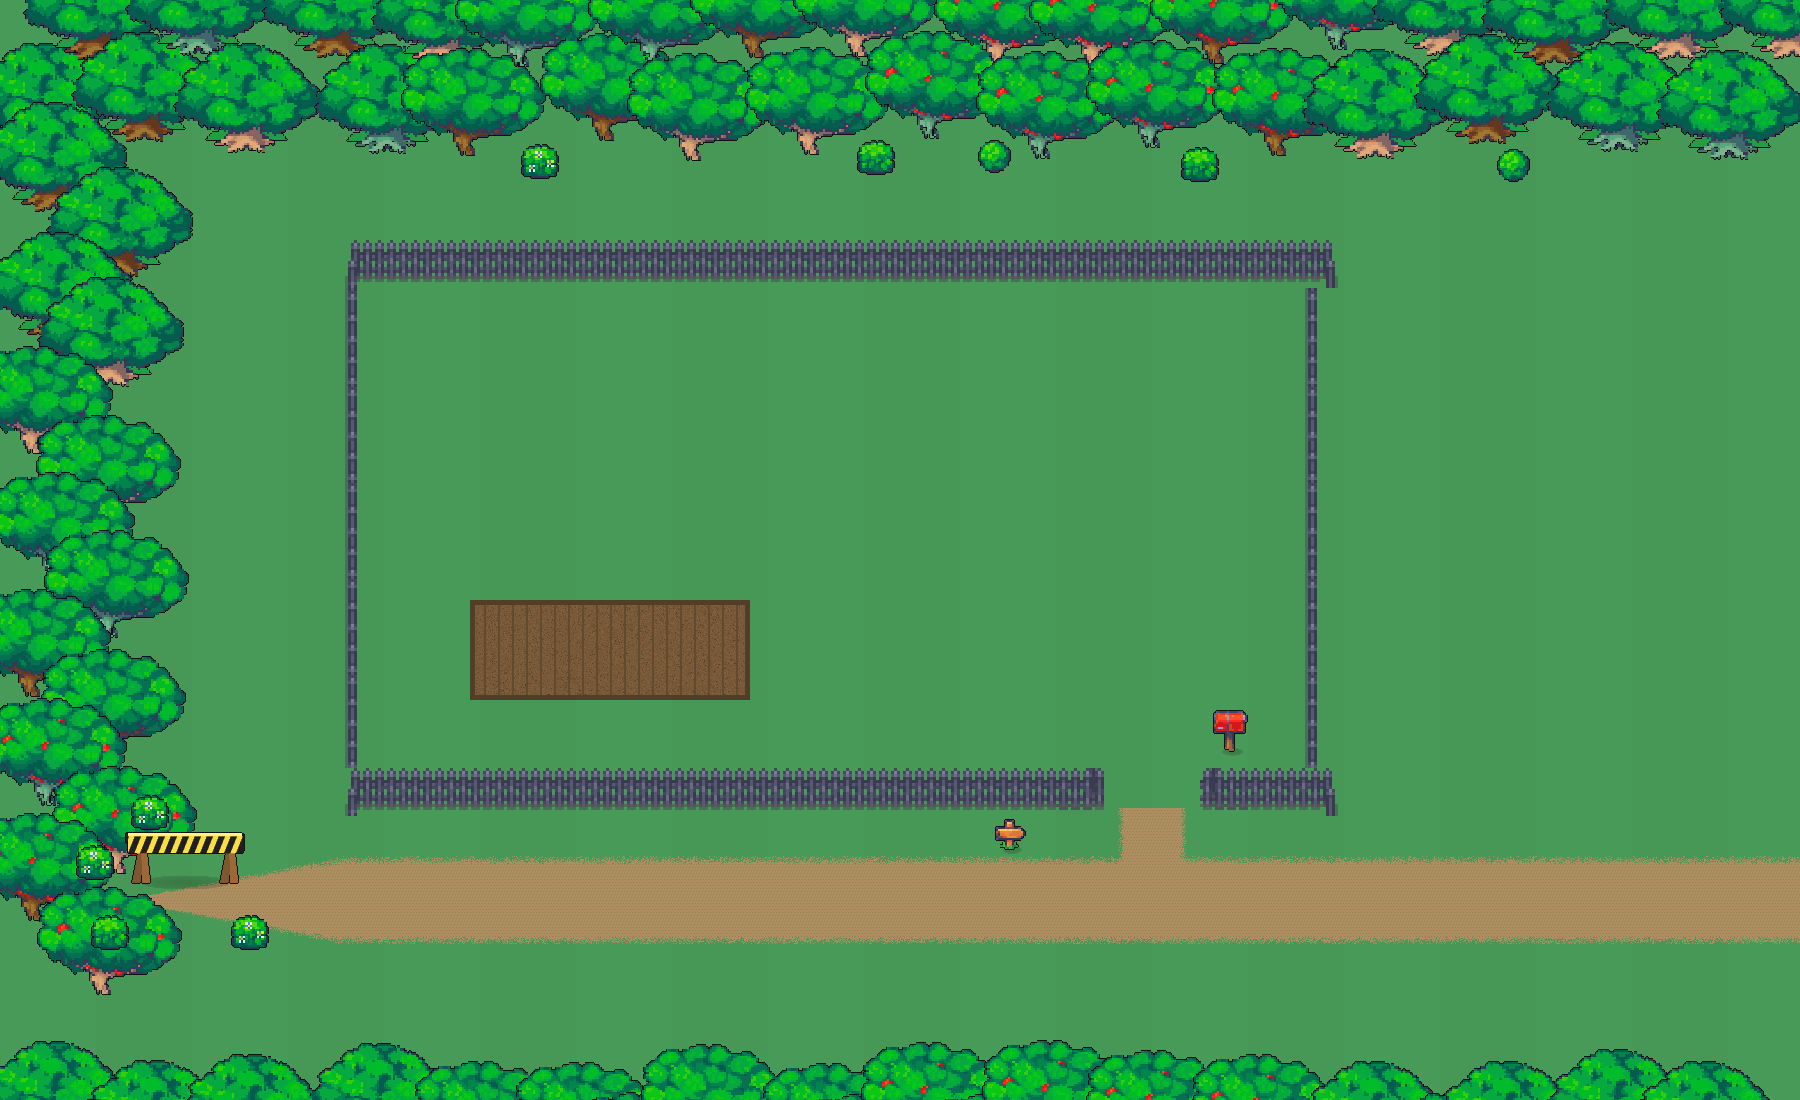
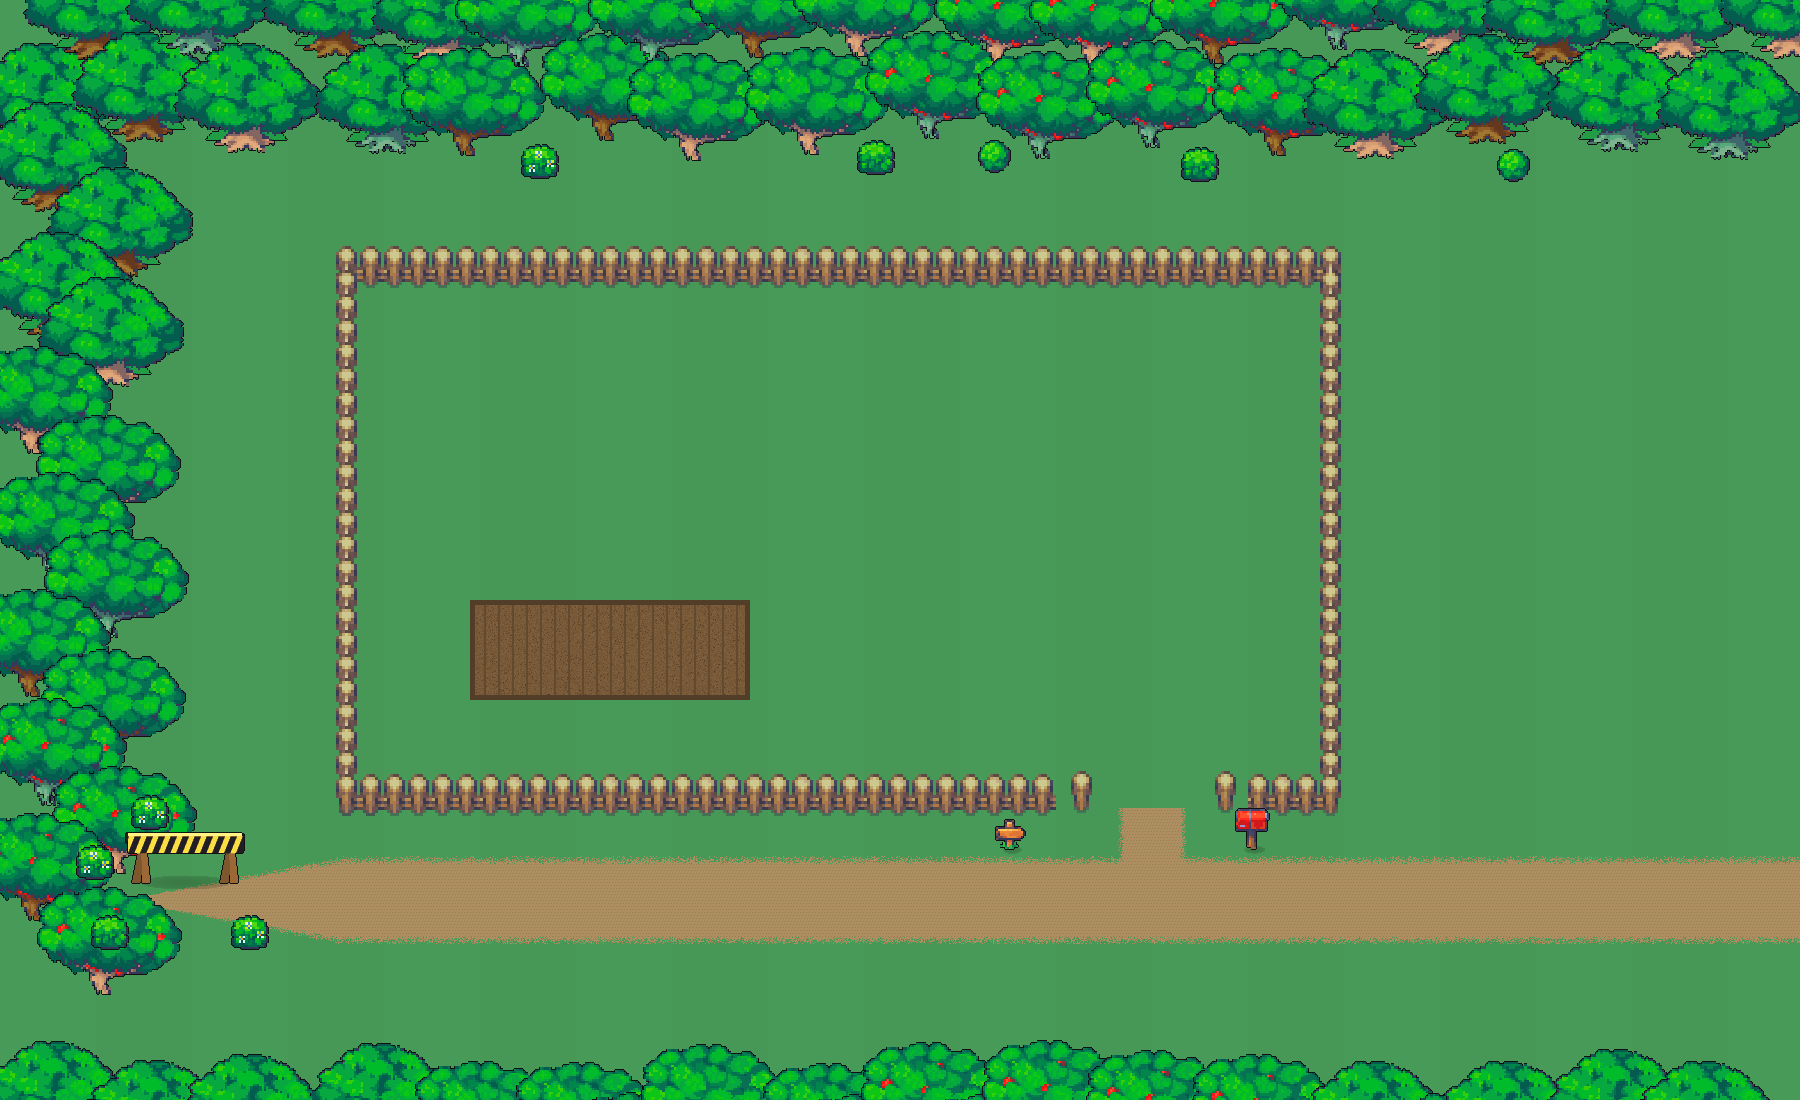
🪵 The homestead gets its wooden fence + the tent leads the mailbox
Trym's second field report, all four items:

1. WOODEN FENCE — swapped Fence_1 (dark pickets) for Modern Farm's
   Wooden_Fence_Type_1_Brown kit. Grammar MEASURED from post spans and
   it is elegant: end-run tiles (1/3) carry the corner posts
   themselves, the verticals (8 west / 4 east) sit in the SAME column
   as the run ends with posts stacking pixel-perfect under the corner
   — which is exactly the "side parts should move right" fix — and the
   south junction tiles (7/5) carry the connector nub on the correct
   post. Gate gets real Single-post ends. Colliders re-derived from
   the measured post columns.

2. CORNERS CONNECT — see above; verified in crops (TL corner + gate).

3. MAILBOX MOVED OUTSIDE the fence, onto the road shoulder by the
   gate — you check the post before you're even home.

4. ⛺ TENT FIRST — at stage 0 the mailbox shows ONE thing: "First
   things first: pitch a tent". No tabs, no catalog, nothing revealed
   until the tent is up — then the tabs + all 12 items appear on the
   spot. Verified live: stage-0 shows only the card, pitch → tabs
   reveal, 12 rows, tent on the map, spot marker gone.

Also fixed from the screenshot: the claim card's width:100% button
rule leaked into every shop row ("get it" stretched over its own
label) — scoped to #hsClaim; and the page gets the [hidden]{display:
none!important} guard (the trap's 5th appearance would have been the
tabs row).

Changed region(s): [[0.1867, 0.2164, 0.7467, 0.7727]]

diff --git a/src/scripts/banana-homestead.js b/src/scripts/banana-homestead.js
@@ -369,6 +369,33 @@ function init() {
   function renderShop() {
     const list = document.getElementById('hsShopList');
     list.replaceChildren();
+    // ⛺ TENT FIRST (Trym): before you've moved in, the mailbox offers ONE
+    // thing — the catalog stays behind the canvas until the tent is up.
+    const tabsRow = shopEl.querySelector('.hs-tabs');
+    tabsRow.hidden = state.stage < 1;
+    if (state.stage < 1) {
+      const card = document.createElement('div');
+      card.className = 'hs-up';
+      card.innerHTML = '<img src="/assets/homestead/ov-tent.png" alt=""><div><b>First things first: pitch a tent</b>'
+        + '<span>' + TENT_PRICE + ' 🪙 — move in, and the whole decor catalog opens up.'
+        + ' Bananacoins come from playing anywhere in the world.</span></div>';
+      const btn = document.createElement('button');
+      btn.className = 'hs-btn';
+      btn.textContent = coinBalance() >= TENT_PRICE ? '⛺ pitch it' : 'need ' + TENT_PRICE + ' 🪙 — you have ' + coinBalance();
+      btn.disabled = coinBalance() < TENT_PRICE;
+      btn.addEventListener('click', () => {
+        passStat('coins_spent', TENT_PRICE);
+        state.stage = 1;
+        save(); refreshTent(); rebuildSolids(); refreshHud();
+        toast('⛺ the tent is up — the catalog is open');
+        float(TENT.x, TENT.y - TENT.h - 8, '⛺');
+        track('homestead_tent');
+        renderShop();   // the tabs + catalog reveal on the spot
+      });
+      card.appendChild(btn);
+      list.appendChild(card);
+      return;
+    }
     const tab = shopEl.dataset.tab || 'order';
     const full = state.items.length >= cap();
     if (tab === 'order') {
@@ -409,30 +436,10 @@ function init() {
           startPlacing(d.id);
         }));
       });
-    } else {   // upgrades
+    } else {   // upgrades (stage ≥ 1 — the tent gate lives above)
       const card = document.createElement('div');
       card.className = 'hs-up';
-      if (state.stage < 1) {
-        card.innerHTML = '<img src="/assets/homestead/ov-tent.png" alt=""><div><b>Pitch a tent</b>'
-          + '<span>' + TENT_PRICE + ' 🪙 — shelter, and the plot grows to ' + CAPS[1] + ' spots.'
-          + ' Campfires and statues start arriving in the catalog.</span></div>';
-        const btn = document.createElement('button');
-        btn.className = 'hs-btn';
-        btn.textContent = coinBalance() >= TENT_PRICE ? 'pitch it' : 'need ' + TENT_PRICE + ' 🪙';
-        btn.disabled = coinBalance() < TENT_PRICE;
-        btn.addEventListener('click', () => {
-          passStat('coins_spent', TENT_PRICE);
-          state.stage = 1;
-          save(); refreshTent(); rebuildSolids(); refreshHud();
-          closeShop();
-          toast('⛺ the tent is up — home');
-          float(TENT.x, TENT.y - TENT.h - 8, '⛺');
-          track('homestead_tent');
-        });
-        card.appendChild(btn);
-      } else {
-        card.innerHTML = '<div><b>⛺ The tent is up</b><span>The cabin is being drawn — next upgrade coming soon.</span></div>';
-      }
+      card.innerHTML = '<div><b>⛺ The tent is up</b><span>The cabin is being drawn — next upgrade coming soon.</span></div>';
       list.appendChild(card);
     }
   }

diff --git a/src/scripts/homestead-geo.js b/src/scripts/homestead-geo.js
@@ -9,7 +9,7 @@ export const FENCE = [336, 240, 1344, 816];
 export const PLOT = [384, 302, 1296, 768];
 export const BED = { rect: [470, 600, 750, 700], slots: [[520, 668], [590, 668], [660, 668], [730, 668]] };
 export const TENT = { x: 760, y: 430, w: 140, h: 136, solid: [-62, -20, 62, 4] };
-export const MAILBOX = { x: 1230, y: 752 };
+export const MAILBOX = { x: 1252, y: 850 };
 export const SIGN = { x: 1010, y: 850 };
-export const OB_RECTS = [[336, 258, 1344, 272], [336, 786, 1104, 800], [1200, 786, 1344, 800], [354, 258, 366, 786], [1314, 258, 1326, 786], [1216, 740, 1244, 754], [994, 840, 1026, 852], [141, 868, 229, 890]];
-export const OVERLAYS = [['ov-0.png', 1213, 710, 35, 42, 752], ['ov-1.png', 995, 819, 31, 31, 850]];
+export const OB_RECTS = [[336, 258, 1344, 272], [336, 786, 1104, 800], [1200, 786, 1344, 800], [338, 258, 356, 786], [1320, 258, 1340, 786], [1238, 838, 1266, 852], [994, 840, 1026, 852], [141, 868, 229, 890]];
+export const OVERLAYS = [['ov-0.png', 1235, 808, 35, 42, 850], ['ov-1.png', 995, 819, 31, 31, 850]];

diff --git a/tools/build-homestead-scene.py b/tools/build-homestead-scene.py
@@ -59,7 +59,7 @@ PLOT = (FX0 * T + T, FY0 * T + T + 14, (FX1 + 1) * T - T, (FY1 + 1) * T - T)
 BED = (470, 600, 750, 700)       # tilled soil rect (x0,y0,x1,y1)
 BED_SLOTS = [(520, 668), (590, 668), (660, 668), (730, 668)]
 TENT = (760, 430)                # (cx, base) — stage 1, client-drawn, faces south
-MAILBOX_AT = (1230, 752)         # just inside the fence, right of the gate
+MAILBOX_AT = (1252, 850)         # OUTSIDE the fence, on the road by the gate
 SIGN_AT = (1010, 850)            # outside, on the road's north shoulder
 SAWHORSE_AT = (185, 886)         # the west end goes nowhere yet
 SPAWN = (W - 150, ROAD_Y)        # arrive walking in from the park side
@@ -170,60 +170,71 @@ COLLIDERS = []                   # (shape) rects in world px
 OVERLAYS = []
 
 
-# ⚠ INDICES READ OFF A CONTACT SHEET, not classified — the picket art touches
-# the tile's top edge on nearly every piece (the fence has height), so edge
-# connectivity can't tell a corner from an end cap. Sheet study, 3 Aug:
-#   7/2 = full horizontal runs · 9/10 = vertical runs (4/5 = post variants)
-#   1 = TL corner (stub turns down-left) · 3 = TR · 11 = BL · 12 = BR
-#   13 = right end cap (connects left) · 8 = left end cap (connects right)
-FENCE_IDX = {'h': 7, 'h2': 2, 'v': 9, 'v2': 10, 'tl': 1, 'tr': 3, 'bl': 11, 'br': 12,
-             'capr': 13, 'capl': 8}
+# 🪵 THE WOODEN FENCE — Modern Farm's Wooden_Fence_Type_1_Brown kit (Trym:
+# "the fence can be wooden"). Grammar MEASURED from post spans, and it is
+# elegant: zero pixel offsets anywhere.
+#   1 = left-end run (wide left post IS the corner) · 3 = right-end run
+#   2/6 = mid runs · 8 = WEST vertical (post x0-20 = the left-post column)
+#   4 = EAST vertical (post x24-44 = the right-post column) — verticals sit in
+#   the SAME tile column as the run ends, never one column outside
+#   7 = south-left junction (top nub over the left post) · 5 = south-right
+#   Single_1/2 = the gate's posts
+import glob as _glob
+
+
+def farm_sprite(name):
+    fs = _glob.glob(os.path.join(FARM, '**', name), recursive=True)
+    return Image.open(fs[0]).convert('RGBA') if fs else None
 
 
 def fence_kit():
     kit = {}
-    for k, i in FENCE_IDX.items():
-        try:
-            kit[k] = load_pack('ME_Singles_Terrains_and_Fences_48x48_Fence_1_%d.png' % i).convert('RGBA')
-        except Exception:
-            kit[k] = None
+    for k, n in (('h', '2'), ('h2', '6'), ('endl', '1'), ('endr', '3'),
+                 ('v_w', '8'), ('v_e', '4'), ('jl', '7'), ('jr', '5'),
+                 ('gl', 'Single_1'), ('gr', 'Single_2')):
+        kit[k] = farm_sprite('Wooden_Fence_Type_1_Brown_%s_48x48.png' % n)
     print('fence kit:', {k: ('ok' if v else 'MISSING') for k, v in kit.items()})
     return kit
 
 
 def lay_fence():
     kit = fence_kit()
-    if not kit['h'] or not kit['v']:
-        print('  no fence run tiles — fence skipped')
+    if not kit['h'] or not kit['v_w']:
+        print('  no fence tiles — fence skipped')
         return
 
     def stamp(tile, tx, ty):
-        im.alpha_composite(tile, (tx * T, ty * T))
-    # top run + SOUTH run with the gate gap (two variants alternate)
+        if tile:
+            im.alpha_composite(tile, (tx * T, ty * T))
+    # north: end pieces carry the corners themselves
+    stamp(kit['endl'], FX0, FY0)
     for tx in range(FX0 + 1, FX1):
-        stamp(kit['h'] if tx % 2 else (kit['h2'] or kit['h']), tx, FY0)
-        if tx not in GATE_COLS:
-            stamp(kit['h'] if tx % 2 else (kit['h2'] or kit['h']), tx, FY1)
-    # the gate's end caps
-    stamp(kit['capr'] or kit['h'], GATE_COLS[0] - 1, FY1)
-    stamp(kit['capl'] or kit['h'], GATE_COLS[-1] + 1, FY1)
-    # side runs — both full now (the gate is in the south)
+        stamp(kit['h'] if tx % 2 else kit['h2'], tx, FY0)
+    stamp(kit['endr'], FX1, FY0)
+    # verticals live in the SAME columns as the run ends
     for ty in range(FY0 + 1, FY1):
-        stamp(kit['v'] if ty % 2 else (kit['v2'] or kit['v']), FX0, ty)
-        stamp(kit['v'] if ty % 2 else (kit['v2'] or kit['v']), FX1, ty)
-    # corners
-    stamp(kit['tl'], FX0, FY0)
-    stamp(kit['tr'], FX1, FY0)
-    stamp(kit['bl'], FX0, FY1)
-    stamp(kit['br'], FX1, FY1)
-    # colliders: one thin rect per run, built from the SAME tile coordinates
-    mid = 18                     # the rail band the banana may not cross
+        stamp(kit['v_w'], FX0, ty)
+        stamp(kit['v_e'], FX1, ty)
+    # south: junction ends (nub where the vertical arrives) + the gate posts
+    stamp(kit['jl'], FX0, FY1)
+    for tx in range(FX0 + 1, FX1):
+        if tx in GATE_COLS:
+            continue
+        if tx == GATE_COLS[0] - 1:
+            stamp(kit['gl'], tx, FY1)
+        elif tx == GATE_COLS[-1] + 1:
+            stamp(kit['gr'], tx, FY1)
+        else:
+            stamp(kit['h'] if tx % 2 else kit['h2'], tx, FY1)
+    stamp(kit['jr'], FX1, FY1)
+    # colliders from the measured post columns
+    mid = 18
     fy0, fy1 = FY0 * T + mid, FY1 * T + mid
-    COLLIDERS.append((FX0 * T, fy0, (FX1 + 1) * T, fy0 + 14))                  # top
+    COLLIDERS.append((FX0 * T, fy0, (FX1 + 1) * T, fy0 + 14))                  # north
     COLLIDERS.append((FX0 * T, fy1, GATE_COLS[0] * T, fy1 + 14))               # south L of gate
     COLLIDERS.append(((GATE_COLS[-1] + 1) * T, fy1, (FX1 + 1) * T, fy1 + 14))  # south R of gate
-    COLLIDERS.append((FX0 * T + mid, fy0, FX0 * T + mid + 12, fy1))            # west
-    COLLIDERS.append((FX1 * T + mid, fy0, FX1 * T + mid + 12, fy1))            # east
+    COLLIDERS.append((FX0 * T + 2, fy0, FX0 * T + 20, fy1))                    # west posts
+    COLLIDERS.append((FX1 * T + 24, fy0, FX1 * T + 44, fy1))                   # east posts
 
 
 if HAVE_PACK:
